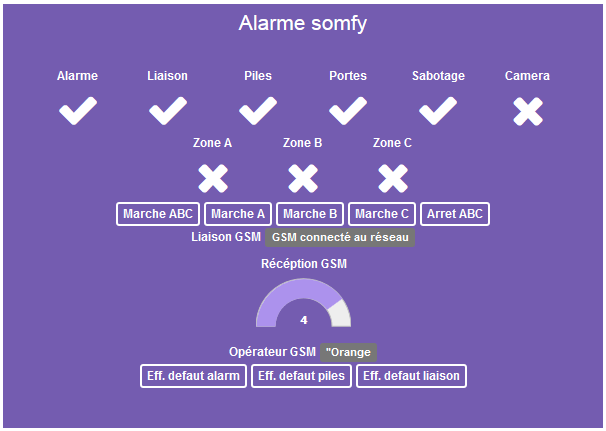
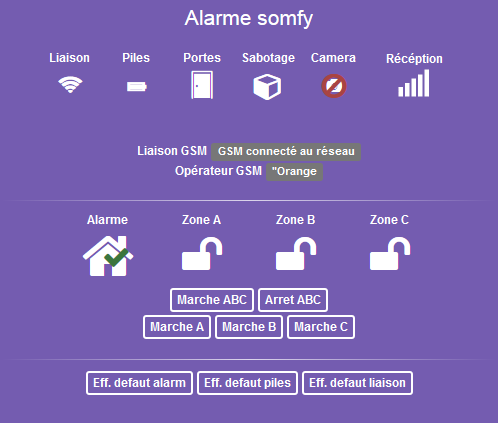
Relookage widget dashboard

diff --git a/core/template/dashboard/cmd.info.numeric.protexiomGsmSignal.html b/core/template/dashboard/cmd.info.numeric.protexiomGsmSignal.html
@@ -10,26 +10,26 @@
      	temp = temp.toFixed(0); // On arrondit;
      
      	if (temp == 0) {
-          $('#iconCmd#id#').append('<img style="display: block;" src="plugins/protexiom/core/template/dashboard/cmd.info.numeric.protexiomGsmSignal/wifi-not-available-48.png">');
+          $('#iconCmd#id#').append('<img style="display: block;" src="plugins/protexiom/core/template/dashboard/cmd.info.numeric.protexiomGsmSignal/wifi-not-available-32.png">');
 			$('#iconCmd#id#').closest('.cmd').css('background-color','#ef0a0a');
         }
      	if (temp >0 && temp <= 10) {
-           	$('#iconCmd#id#').append('<img style="display: block;" src="plugins/protexiom/core/template/dashboard/cmd.info.numeric.protexiomGsmSignal/wifi-0-48.png">');
+           	$('#iconCmd#id#').append('<img style="display: block;" src="plugins/protexiom/core/template/dashboard/cmd.info.numeric.protexiomGsmSignal/wifi-0-32.png">');
         }
      	if (temp > 10 && temp <= 30) {
-           	$('#iconCmd#id#').append('<img style="display: block;" src="plugins/protexiom/core/template/dashboard/cmd.info.numeric.protexiomGsmSignal/wifi-20-48.png">');
+           	$('#iconCmd#id#').append('<img style="display: block;" src="plugins/protexiom/core/template/dashboard/cmd.info.numeric.protexiomGsmSignal/wifi-20-32.png">');
         }
      	if (temp > 30 && temp <= 50) {
-           	$('#iconCmd#id#').append('<img style="display: block;" src="plugins/protexiom/core/template/dashboard/cmd.info.numeric.protexiomGsmSignal/wifi-40-48.png">');
+           	$('#iconCmd#id#').append('<img style="display: block;" src="plugins/protexiom/core/template/dashboard/cmd.info.numeric.protexiomGsmSignal/wifi-40-32.png">');
         }
      	if (temp > 50 && temp <= 70) {
-           	$('#iconCmd#id#').append('<img style="display: block;" src="plugins/protexiom/core/template/dashboard/cmd.info.numeric.protexiomGsmSignal/wifi-60-48.png">');
+           	$('#iconCmd#id#').append('<img style="display: block;" src="plugins/protexiom/core/template/dashboard/cmd.info.numeric.protexiomGsmSignal/wifi-60-32.png">');
         }
      	if (temp > 70 && temp <= 90) {
-           	$('#iconCmd#id#').append('<img style="display: block;" src="plugins/protexiom/core/template/dashboard/cmd.info.numeric.protexiomGsmSignal/wifi-80-48.png">');
+           	$('#iconCmd#id#').append('<img style="display: block;" src="plugins/protexiom/core/template/dashboard/cmd.info.numeric.protexiomGsmSignal/wifi-80-32.png">');
         }
      	if (temp > 90 && temp <= 100) {
-           	$('#iconCmd#id#').append('<img style="display: block;;" src="plugins/protexiom/core/template/dashboard/cmd.info.numeric.protexiomGsmSignal/wifi-100-48.png">');58
+           	$('#iconCmd#id#').append('<img style="display: block;;" src="plugins/protexiom/core/template/dashboard/cmd.info.numeric.protexiomGsmSignal/wifi-100-32.png">');
         }
     </script>
 </div>

diff --git a/core/template/dashboard/cmd.info.binary.protexiomLink.html b/core/template/dashboard/cmd.info.binary.protexiomLink.html
@@ -1,19 +1,22 @@
-<div style="width:90px;min-height:62px;" class="cmd #history# tooltips cmd-widget" data-type="info" data-subtype="binary" data-cmd_id="#id#" id="titleCmd#id#" title="#collectDate#">
+<div style="width:62px;min-height:62px;" class="cmd #history# tooltips cmd-widget" data-type="info" data-subtype="binary" data-cmd_id="#id#" id="titleCmd#id#" title="#collectDate#">
     <center>
         <span style="font-weight: bold;font-size : 12px;" class='cmdName'>#name#<br/></span>
-        <span class="fa-stack fa-2x">
-        	<i class="fa fa-wifi fa-stack-1x"></i>
-        	<i id="iconCmd#id#"></i>
+        <span id="spanCmd#id#">
+        	<i style="font-size: 1.5em;font-weight: bold;margin-top: 5px;" id="backIconCmd#id#"></i>
+        	<i style="font-size: 1.5em;font-weight: bold;margin-top: 5px;" id="frontIconCmd#id#"></i>
         </span>
     </center>
 
     <script>
         if ('#state#' == '1' || '#state#' == 1) {
-            //$('#iconCmd#id#').addClass('fa fa-camera');
-        	$('#titleCmd#id#').attr('title', 'OK  -  #collectDate#');
+        	$('#spanCmd#id#').addClass('fa-stack fa-1x');
+            $('#titleCmd#id#').attr('title', 'OK  -  #collectDate#');
+            $('#backIconCmd#id#').addClass('fa fa-wifi fa-stack-1x')
         }
         if ('#state#' == '0' || '#state#' == 0) {
-            $('#iconCmd#id#').addClass('fa fa-exclamation fa-stack-1x text-danger');
+        	$('#spanCmd#id#').addClass('fa-stack fa-1x');
+        	$('#backIconCmd#id#').addClass('fa fa-wifi fa-stack-1x');
+        	$('#frontIconCmd#id#').addClass('fa fa-exclamation fa-stack-1x text-danger');
             $('#titleCmd#id#').attr('title', 'Erreur liaison  -  #collectDate#');
         }
     </script>

diff --git a/core/template/dashboard/cmd.info.binary.protexiomCamera.html b/core/template/dashboard/cmd.info.binary.protexiomCamera.html
@@ -1,18 +1,22 @@
-<div style="width:90px;min-height:62px;" class="cmd #history# tooltips cmd-widget" data-type="info" data-subtype="binary" data-cmd_id="#id#" id="titleCmd#id#" title="#collectDate#">
+<div style="width:62px;min-height:62px;" class="cmd #history# tooltips cmd-widget" data-type="info" data-subtype="binary" data-cmd_id="#id#" id="titleCmd#id#" title="#collectDate#">
     <center>
         <span style="font-weight: bold;font-size : 12px;" class='cmdName'>#name#<br/></span>
-        <span class="fa-stack fa-2x">
-        	<i class="fa fa-camera fa-stack-1x"></i>
-        	<i id="iconCmd#id#"></i>
+        <span id="spanCmd#id#">
+        	<i style="font-weight: bold;margin-top: 5px;" id="backIconCmd#id#"></i>
+        	<i style="font-size: 2em;font-weight: bold;margin-top: 5px;" id="frontIconCmd#id#"></i>
         </span>
     </center>
 
     <script>
         if ('#state#' == '1' || '#state#' == 1) {
             $('#titleCmd#id#').attr('title', 'OK  -  #collectDate#');
+            $('#backIconCmd#id#').addClass('fa fa-camera fa-stack-2x');
+            //$('#backIconCmd#id#').css({ "font-size" : "1.5em" }); 
         }
         if ('#state#' == '0' || '#state#' == 0) {
-            $('#iconCmd#id#').addClass('fa fa-ban fa-stack-2x text-danger');
+        	$('#spanCmd#id#').addClass('fa-stack fa-1x');
+        	$('#backIconCmd#id#').addClass('fa fa-camera fa-stack-1x');
+        	$('#frontIconCmd#id#').addClass('fa fa-ban fa-stack-2x text-danger');
             $('#titleCmd#id#').attr('title', 'Camera absente  -  #collectDate#');
         }
     </script>

diff --git a/core/template/dashboard/eqLogic.html b/core/template/dashboard/eqLogic.html
@@ -12,6 +12,7 @@
             	#tampered#
             	#camera#
             	#gsm_signal#
+            	#needs_reboot#
             	#gsm_link#
             	#gsm_operator#
             	<hr style="margin-bottom:8px;border: 0;height: 1px;background-image:-webkit-linear-gradient(left,rgba(255,255,255,0),rgba(255,255,255,0.75),rgba(255,255,255,0));background-image:-moz-linear-gradient(left,rgba(255,255,255,0),rgba(255,255,255,0.75),rgba(255,255,255,0));background-image:-ms-linear-gradient(left,rgba(255,255,255,0),rgba(255,255,255,0.75),rgba(255,255,255,0));background-image:-o-linear-gradient(left, rgba(255,255,255,0), rgba(255,255,255,0.75), rgba(255,255,255,0));}">
@@ -20,14 +21,15 @@
             	#zone_b#
             	#zone_c#
             	#zoneabc_on#
+            	#abc_off#
+            	<br>
             	#zonea_on#
             	#zoneb_on#
             	#zonec_on#
-            	#abc_off#
+				<hr style="margin-bottom:8px;border: 0;height: 1px;background-image:-webkit-linear-gradient(left,rgba(255,255,255,0),rgba(255,255,255,0.75),rgba(255,255,255,0));background-image:-moz-linear-gradient(left,rgba(255,255,255,0),rgba(255,255,255,0.75),rgba(255,255,255,0));background-image:-ms-linear-gradient(left,rgba(255,255,255,0),rgba(255,255,255,0.75),rgba(255,255,255,0));background-image:-o-linear-gradient(left, rgba(255,255,255,0), rgba(255,255,255,0.75), rgba(255,255,255,0));}">
             	#reset_alarm_err#
             	#reset_battery_err#
             	#reset_link_err#
-            	#needs_reboot#
             </span>
         </center>
     </div>

diff --git a/core/template/dashboard/cmd.info.string.protexiomAlarm.html b/core/template/dashboard/cmd.info.string.protexiomAlarm.html
@@ -14,14 +14,17 @@
             $('#icon2Cmd#id#').addClass('fa fa-check text-success fa-1x fa-stack-1x pull-right');
             $('#titleCmd#id#').attr('title', 'Pas d\'alarme  -  #collectDate#');
         }
-        if ('#state#' == 'NOK_INT') {
-            $('#iconCmd#id#').addClass('fa icon jeedom-mouvement fa-2x fa-stack-1x');
+        if ('#state#' == 'nok_int') {
+        	$('#iconCmd#id#').addClass('fa fa-home fa-2x fa-stack-1x');
+            $('#icon2Cmd#id#').addClass('fa icon jeedom-mouvement text-danger fa-2x fa-stack-2x');
             $('#titleCmd#id#').attr('title', 'Alarme Intrusion  -  #collectDate#');
         }
-        if ('#state#' == 'NOK_DOM') {
+        if ('#state#' == 'nok_dom') {
         	$('#iconCmd#id#').addClass('fa fa-home fa-2x fa-stack-1x');
-        	$('#icon2Cmd#id#').addClass('fa fa-fire text-danger  fa-stack-1x pull-right');
-        	$('#icon3Cmd#id#').addClass('fa nature-drops1 text-info  fa-stack-1x');
+        	$('#icon2Cmd#id#').addClass('fa fa-fire  fa-stack-1x pull-right');
+		$('#icon2Cmd#id#').css({ "color": "#ff8000" });
+        	$('#icon3Cmd#id#').addClass('fa nature-drops1 fa-stack-1x');
+		$('#icon3Cmd#id#').css({ "color": "#1b7ae4" });
         	$('#titleCmd#id#').attr('title', 'Alarme domestique  -  #collectDate#');
         }
     </script>

diff --git a/core/template/dashboard/cmd.info.binary.protexiomBattery.html b/core/template/dashboard/cmd.info.binary.protexiomBattery.html
@@ -1,7 +1,7 @@
-<div style="width:90px;min-height:62px;" class="cmd #history# tooltips cmd-widget" data-type="info" data-subtype="binary" data-cmd_id="#id#" id="titleCmd#id#" title="#collectDate#">
+<div style="width:62px;min-height:62px;" class="cmd #history# tooltips cmd-widget" data-type="info" data-subtype="binary" data-cmd_id="#id#" id="titleCmd#id#" title="#collectDate#">
     <center>
         <span style="font-weight: bold;font-size : 12px;" class='cmdName'>#name#<br/></span>
-        <span style="font-size: 3em;font-weight: bold;margin-top: 5px;" id="iconCmd#id#"></span>
+        <span style="font-size: 2.5em;font-weight: bold;margin-top: 2px;" id="iconCmd#id#"></span>
     </center>
 
     <script>
@@ -15,3 +15,4 @@
         }
     </script>
 </div>
+

diff --git a/core/template/dashboard/cmd.info.binary.protexiomNeedsReboot.html b/core/template/dashboard/cmd.info.binary.protexiomNeedsReboot.html
@@ -6,12 +6,12 @@
 
     <script>
         if ('#state#' == '1' || '#state#' == 1) {
-            $('#iconCmd#id#').addClass('fa fa-cube');
-            $('#titleCmd#id#').attr('title', 'OK  -  #collectDate#');
+            $('#iconCmd#id#').addClass('fa fa-exclamation text-danger');
+            $('#titleCmd#id#').attr('title', 'Reboot requis  -  #collectDate#');
         }
         if ('#state#' == '0' || '#state#' == 0) {
-            $('#iconCmd#id#').addClass('fa fa-dropbox text-danger');
-            $('#titleCmd#id#').attr('title', 'Alarme sabotage  -  #collectDate#');
+            $('#iconCmd#id#').addClass('fa fa-check');
+            $('#titleCmd#id#').attr('title', 'OK  -  #collectDate#');
         }
     </script>
 </div>

diff --git a/core/template/dashboard/cmd.info.binary.protexiomDoor.html b/core/template/dashboard/cmd.info.binary.protexiomDoor.html
@@ -1,7 +1,7 @@
-<div style="width:90px;min-height:62px;" class="cmd #history# tooltips cmd-widget" data-type="info" data-subtype="binary" data-cmd_id="#id#" id="titleCmd#id#" title="#collectDate#">
+<div style="width:62px;min-height:62px;" class="cmd #history# tooltips cmd-widget" data-type="info" data-subtype="binary" data-cmd_id="#id#" id="titleCmd#id#" title="#collectDate#">
     <center>
         <span style="font-weight: bold;font-size : 12px;" class='cmdName'>#name#<br/></span>
-        <span style="font-size: 3em;" id="iconCmd#id#"></span>
+        <span style="font-size: 2em;" id="iconCmd#id#"></span>
     </center>
 
 	<script>

diff --git a/core/template/mobile/cmd.info.binary.protexiomNeedsReboot.html b/core/template/mobile/cmd.info.binary.protexiomNeedsReboot.html
@@ -1,0 +1,14 @@
+<div class="cmd" data-type="info" data-subtype="binary" data-cmd_id="#id#" >
+    <center>
+        <span style="font-weight: bold;font-size : 12px;">#name#</span><br/>
+        <span style="font-size: 2.5em;margin-top: 5px;" id="iconCmd#id#"></span>
+    </center>
+    <script>
+        if ('#state#' == '1' || '#state#' == 1) {
+            $('#iconCmd#id#').addClass('fa fa-check');
+        }
+        if ('#state#' == '0' || '#state#' == 0) {
+            $('#iconCmd#id#').addClass('fa fa-times');
+        }
+    </script>
+</div>

diff --git a/plugin_info/install.php b/plugin_info/install.php
@@ -19,12 +19,12 @@ require_once dirname(__FILE__) . '/../../../core/php/core.inc.php';
 }*/
 
 function protexiom_update() {
-	log::add('protexiom', 'info', 'Running protexiom post-update script', 'Protexiom');
+	log::add('protexiom', 'info', '[*-*] '.getmypid().' Running protexiom post-update script', 'Protexiom');
 	
 	foreach (eqLogic::byType('protexiom') as $eqLogic) {
 		/*
 		 * Upgrade to v0.0.9
-		*/
+		 */
 		//Let's convert info CMD to eventOnly
 		if(filter_var($eqLogic->getConfiguration('PollInt'), FILTER_VALIDATE_INT, array('options' => array('min_range' => 1)))){
 			// If polling is on, we can set every info CMD to setEventOnly
@@ -36,16 +36,53 @@ function protexiom_update() {
 		}
 		
 		/*
+		 * Upgrade to v0.0.10
+		*/
+		
+		$cmd=$eqLogic->getCmd('info', 'alarm');
+		if($cmd->getSubType()=='binary'){
+			$cmd->setSubType('string');
+			message::add('protexiom', 'Somfy alarme: La commande d\'info "'.$cmd->getName().'" a été modifiée. Son type change, ainsi que sa valeur. Si cette commande est utilisée dans des scenarios, vous devez les modifier.', '', 'Protexiom');
+			$cmd->save();
+		}
+		
+		$templateList = [
+		'zone_a' => 'protexiomZone',
+		'zone_b' => 'protexiomZone',
+		'zone_c' => 'protexiomZone',
+		'battery' => 'protexiomBattery',
+		'link' => 'protexiomLink',
+		'door' => 'protexiomDoor',
+		'alarm' => 'protexiomAlarm',
+		'tampered' => 'protexiomTampered',
+		'gsm_signal' => 'protexiomGsmSignal',
+		'needs_reboot' => 'protexiomNeedsReboot',
+		'camera' => 'protexiomCamera'
+				];
+		
+		foreach ($templateList as $key => $value){
+			$cmd=$eqLogic->getCmd('info', $key);
+			if(!$cmd->getTemplate($version, '')){
+				log::add('protexiom', 'info', '[*-*] '.getmypid().' Setting template for '.$cmd->getName(), 'Protexiom');
+				$cmd->setTemplate('dashboard', $value);
+				$cmd->setTemplate('mobile', $value);
+				$cmd->save();
+			}
+		}
+		
+		/*
 		 * End of version spécific upgrade actions. Let's run standard actions
 		 */
 		//As the protexiom::pull task is schedulded as a daemon, we should restart it so that it uses functions from the new plugin version.
 		//Let's stop it, it will then automatically restart
 		$cron = cron::byClassAndFunction('protexiom', 'pull', array('protexiom_id' => intval($eqLogic->getId())));
 		if (is_object($cron)) {
-			log::add('protexiom', 'info', '['.$eqLogic->getName().'-'.$eqLogic->getId().'] '.'Stopping pull daemon', $eqLogic->getName());
+			log::add('protexiom', 'info', '['.$eqLogic->getName().'-'.$eqLogic->getId().'] '.getmypid().' Stopping pull daemon', $eqLogic->getName());
 			$cron->stop();
 		}
 	}
+	
+	log::add('protexiom', 'info', '[*-*] '.getmypid().' End of protexiom post-update script', 'Protexiom');
 }
 
 

diff --git a/core/class/protexiom.class.php b/core/class/protexiom.class.php
@@ -691,6 +691,8 @@ class protexiom extends eqLogic {
         $protexiomCmd->setType('info');
         $protexiomCmd->setSubType('binary');
         $protexiomCmd->setIsVisible(0);
+        $protexiomCmd->setTemplate('dashboard', 'protexiomNeedsReboot');
+        $protexiomCmd->setTemplate('mobile', 'protexiomNeedsReboot');
         $protexiomCmd->save();
   
     }
@@ -847,15 +849,7 @@ class protexiom extends eqLogic {
     	} */
     
     	$version = jeedom::versionAlias($_version);
-    	$vcolor = 'cmdColor';
-    	if ($version == 'mobile') {
-    		$vcolor = 'mcmdColor';
-    	}
-    	if ($this->getPrimaryCategory() == '') {
-    		$cmdColor = '';
-    	} else {
-    		$cmdColor = jeedom::getConfiguration('eqLogic:category:' . $this->getPrimaryCategory() . ':' . $vcolor);
-    	}
+
     	$replace = array(
     			'#id#' => $this->getId(),
     			'#name#' => $this->getName(),
